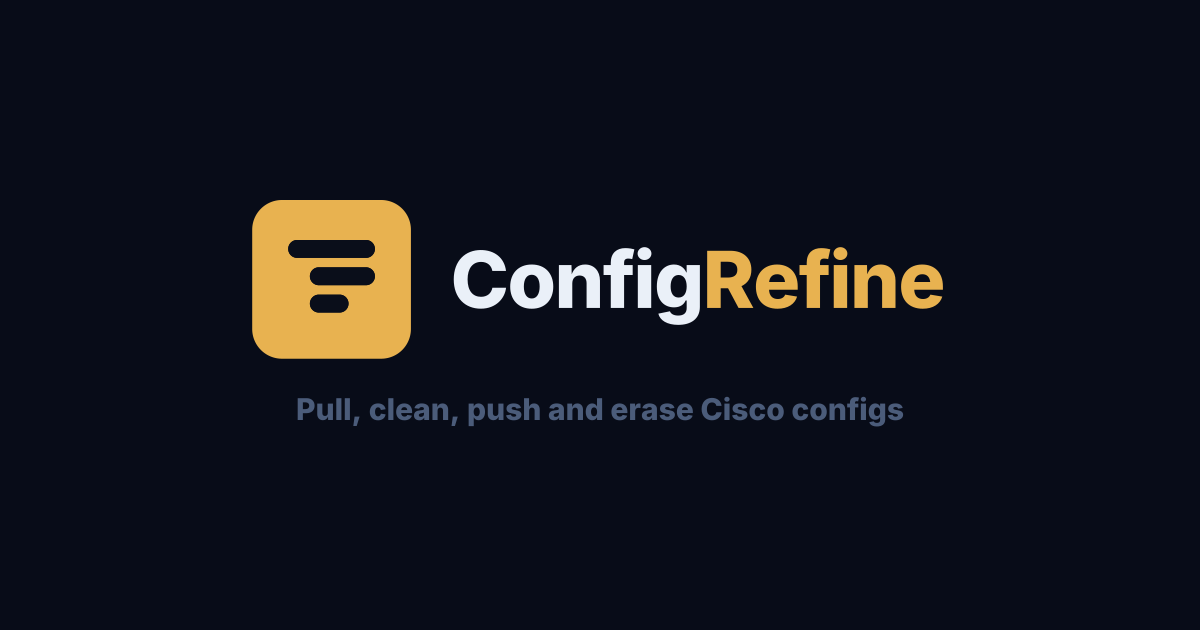
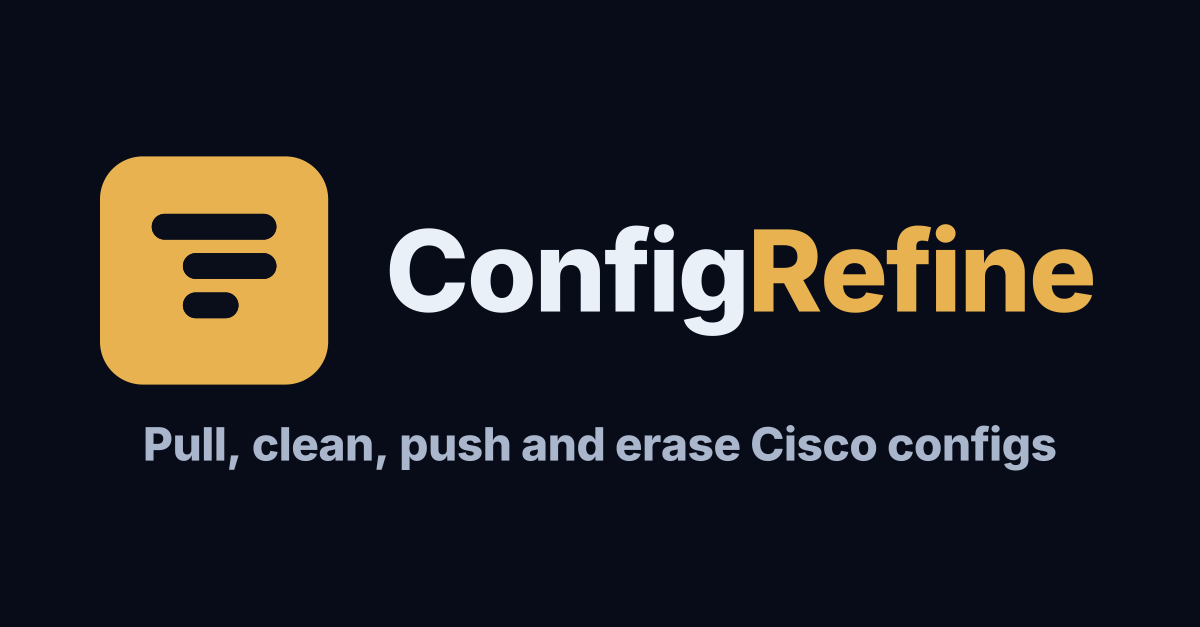
Clearer lab status and link preview
- Lab panel status: no badge while the backend is reachable; the green
  pod chip while a pod is connected; a red "Lab offline" chip plus a
  "Lab connection unavailable" box when the backend is unreachable, with
  the form fields greyed out and disabled and the main button reading
  "Pull / Push / Erase unavailable". Removes the "API" badge and the
  pull_configs.py --serve hint from the UI.
- New 1200x627 link preview image (public/og-image.png, source in
  branding/configrefine-og-image.png).
- <head>: new description everywhere, og:image / twitter:image at
  ?v=2 with width, height, type and alt, plus og:url, og:site_name and
  author; outdated tags replaced.

Changed region(s): [[0.0617, 0.2424, 0.925, 0.6364], [0.1233, 0.6364, 0.8942, 0.7576]]

diff --git a/src/components/LabPanel.jsx b/src/components/LabPanel.jsx
@@ -43,7 +43,10 @@ export function LabPanel({ onClose, onConfigsPulled, files: loadedFiles, vp, inS
   const { releaseIfIdle } = pod;
   useEffect(() => releaseIfIdle, [releaseIfIdle]);
 
-  // Compact input sizes on mobile / in-sheet
+  // Backend unreachable: the lab features can't work, but pasting / cleaning configs still does
+  const offline = apiOnline === false;
+
+  // Compact input sizes on mobile / in-sheet; greyed out while offline
   const inp = {
     width: "100%",
     padding: (vp.phone || inSheet) ? "6px 8px" : "7px 10px",
@@ -51,9 +54,25 @@ export function LabPanel({ onClose, onConfigsPulled, files: loadedFiles, vp, inS
     background: C.surface, color: C.text,
     fontSize: 11, outline: "none",
     fontFamily: "inherit", borderRadius: 0,
+    ...(offline && { opacity: 0.45, cursor: "not-allowed" }),
   };
 
-  const sharedProps = { conn, apiKey, needsAuth, apiOnline, mode, apiBase, inpStyle: inp, pod };
+  const unavailableLabel = `${action === "pull" ? "Pull" : action === "push" ? "Push" : "Erase"} unavailable`;
+
+  const sharedProps = { conn, apiKey, needsAuth, apiOnline, offline, mode, apiBase, inpStyle: inp, pod };
+
+  // Header chip: red "Lab offline" when the backend is unreachable, the green pod chip while a
+  // pod is connected, nothing otherwise (a reachable backend needs no badge)
+  const podLabel = connected ? (session.pod ? `POD ${session.pod}` : "POD") : null;
+  const statusChip = (offline || podLabel) && (
+    <span style={{ display: "flex", alignItems: "center", gap: 4, fontSize: 9, fontWeight: 700, fontFamily: mono, color: offline ? C.red : C.green, whiteSpace: "nowrap" }}>
+      <span style={{ width: 5, height: 5, background: offline ? C.red : C.green }} />
+      {offline ? "Lab offline" : podLabel}
+    </span>
+  );
+
+  // Disables every form control inside it while offline (fields grey via `inp`, buttons via Btn)
+  const offlineFieldset = { border: "none", margin: 0, padding: 0, minWidth: 0 };
 
   // ── Inner content (tabs + credentials + panel) ─────────────────────────────
   const content = (
@@ -113,21 +132,19 @@ export function LabPanel({ onClose, onConfigsPulled, files: loadedFiles, vp, inS
       </div>
 
       <div style={{ flex: inSheet ? undefined : 1, padding: 14, display: "flex", flexDirection: "column", gap: 12 }}>
-        {/* Backend offline warning */}
-        {apiOnline === false && (
-          <div style={{ padding: 12, background: "rgba(248,113,113,0.06)", border: "1px solid rgba(248,113,113,0.15)", display: "flex", flexDirection: "column", gap: 6 }}>
-            <div style={{ display: "flex", alignItems: "center", gap: 6 }}>
-              <AlertCircle style={{ width: 13, height: 13, color: C.red }} />
-              <span style={{ fontSize: 11, fontWeight: 700, color: C.red }}>Backend not running</span>
+        {/* Backend unreachable */}
+        {offline && (
+          <div role="status" style={{ padding: 12, background: "rgba(248,113,113,0.06)", border: "1px solid rgba(248,113,113,0.2)", display: "flex", gap: 8, alignItems: "flex-start" }}>
+            <AlertCircle style={{ width: 14, height: 14, color: C.red, flexShrink: 0, marginTop: 1 }} />
+            <div style={{ display: "flex", flexDirection: "column", gap: 3 }}>
+              <span style={{ fontSize: 11, fontWeight: 700, color: C.red }}>Lab connection unavailable</span>
+              <span style={{ fontSize: 10, color: C.muted }}>Pasting and cleaning configs still works.</span>
             </div>
-            <code style={{ fontSize: 10, color: C.accent, fontFamily: mono, padding: "6px 10px", background: C.surface, border: `1px solid ${C.border}`, display: "block" }}>
-              python pull_configs.py --serve
-            </code>
           </div>
         )}
 
         {/* ── Connection (shared across pull / push / erase) ── */}
-        <div style={{ display: "flex", flexDirection: "column", gap: 8 }}>
+        <fieldset disabled={offline} style={{ ...offlineFieldset, display: "flex", flexDirection: "column", gap: 8 }}>
           <div style={{ fontSize: 8, fontWeight: 800, letterSpacing: 3, color: C.muted + "88", textTransform: "uppercase", fontFamily: mono }}>
             {mode === "console" ? "Console Server" : "Credentials"}
           </div>
@@ -201,7 +218,7 @@ export function LabPanel({ onClose, onConfigsPulled, files: loadedFiles, vp, inS
           {mode === "console" && !connected && (
             <Btn icon={discovering ? Loader : Wifi} onClick={() => pod.discover()} primary disabled={!apiOnline || discovering}
               style={{ justifyContent: "center", padding: "10px 0" }}>
-              {discovering ? "Discovering..." : "Connect & Discover Devices"}
+              {offline ? unavailableLabel : discovering ? "Discovering..." : "Connect & Discover Devices"}
             </Btn>
           )}
           {mode === "console" && discoverMsg && !(connected && discoverMsg.status === "done") && (
@@ -209,9 +226,10 @@ export function LabPanel({ onClose, onConfigsPulled, files: loadedFiles, vp, inS
               {discoverMsg.text}
             </div>
           )}
-        </div>
+        </fieldset>
 
         {/* ── Panels — all stay mounted so per-tab selections and progress survive tab switches ── */}
+        <fieldset disabled={offline} style={offlineFieldset}>
         <div style={{ display: action === "pull" ? "block" : "none" }}>
           <PullPanel {...sharedProps} onConfigsPulled={onConfigsPulled} />
         </div>
@@ -221,6 +239,7 @@ export function LabPanel({ onClose, onConfigsPulled, files: loadedFiles, vp, inS
         <div style={{ display: action === "erase" ? "block" : "none" }}>
           <ErasePanel {...sharedProps} active={action === "erase"} />
         </div>
+        </fieldset>
       </div>
     </>
   );
@@ -237,12 +256,7 @@ export function LabPanel({ onClose, onConfigsPulled, files: loadedFiles, vp, inS
               {action === "pull" ? "Pull Configs" : action === "push" ? "Push Configs" : "Erase & Reload"}
             </div>
           </div>
-          {apiOnline !== null && (
-            <div style={{ display: "flex", alignItems: "center", gap: 4, padding: "3px 8px", background: apiOnline ? C.greenDim : "rgba(248,113,113,0.1)", border: `1px solid ${apiOnline ? "rgba(52,211,153,0.15)" : "rgba(248,113,113,0.15)"}` }}>
-              <div style={{ width: 5, height: 5, background: apiOnline ? C.green : C.red }} />
-              <span style={{ fontSize: 8, fontWeight: 700, color: apiOnline ? C.green : C.red, fontFamily: mono }}>{apiOnline ? "API" : "OFF"}</span>
-            </div>
-          )}
+          {statusChip}
         </div>
         {content}
       </div>
@@ -266,12 +280,7 @@ export function LabPanel({ onClose, onConfigsPulled, files: loadedFiles, vp, inS
           </div>
         </div>
         <div style={{ display: "flex", gap: 4, alignItems: "center" }}>
-          {apiOnline !== null && (
-            <div style={{ display: "flex", alignItems: "center", gap: 4, padding: "3px 8px", background: apiOnline ? C.greenDim : "rgba(248,113,113,0.1)", border: `1px solid ${apiOnline ? "rgba(52,211,153,0.15)" : "rgba(248,113,113,0.15)"}` }}>
-              <div style={{ width: 5, height: 5, background: apiOnline ? C.green : C.red }} />
-              <span style={{ fontSize: 8, fontWeight: 700, color: apiOnline ? C.green : C.red, fontFamily: mono }}>{apiOnline ? "API" : "OFF"}</span>
-            </div>
-          )}
+          {statusChip}
           <IcoBtn icon={X} label="Close" onClick={onClose} />
         </div>
       </div>

diff --git a/src/components/PullPanel.jsx b/src/components/PullPanel.jsx
@@ -11,7 +11,7 @@ import { useReportBusy } from "../hooks/usePodConnection";
  * The device list (console menu or direct host list) comes from the shared
  * `pod` connection; only the pull selection is local to this tab.
  */
-export function PullPanel({ conn, apiKey, apiOnline, mode, onConfigsPulled, apiBase, inpStyle, pod }) {
+export function PullPanel({ conn, apiKey, apiOnline, offline, mode, onConfigsPulled, apiBase, inpStyle, pod }) {
   const { C } = useTheme();
   const { devices, directHosts, setDirectHosts } = pod;
   const [selected, setSelected] = useState(() => devices ? Object.keys(devices) : []);
@@ -114,7 +114,7 @@ export function PullPanel({ conn, apiKey, apiOnline, mode, onConfigsPulled, apiB
         <div style={{ display: "flex", flexDirection: "column", gap: 4 }}>
           <div style={{ display: "flex", justifyContent: "space-between", alignItems: "center" }}>
             <span style={{ fontSize: 8, fontWeight: 800, letterSpacing: 3, color: C.muted + "88", textTransform: "uppercase", fontFamily: mono }}>Devices</span>
-            <button onClick={() => setDirectHosts(p => [...p, ""])} title="Add device" style={{ fontSize: 8, fontWeight: 700, color: C.accent, background: "none", border: "none", cursor: "pointer", fontFamily: mono, display: "flex", alignItems: "center", gap: 3 }}>
+            <button onClick={() => setDirectHosts(p => [...p, ""])} title="Add device" style={{ fontSize: 8, fontWeight: 700, color: C.accent, background: "none", border: "none", cursor: offline ? "not-allowed" : "pointer", opacity: offline ? 0.45 : 1, fontFamily: mono, display: "flex", alignItems: "center", gap: 3 }}>
               <Plus style={{ width: 10, height: 10 }} /> Add
             </button>
           </div>
@@ -131,7 +131,7 @@ export function PullPanel({ conn, apiKey, apiOnline, mode, onConfigsPulled, apiB
       )}
       {mode === "direct" && (
         <Btn icon={busy ? Loader : Play} onClick={pullDirect} primary disabled={!apiOnline || busy || !directHosts.some(h => h.trim())} style={{ justifyContent: "center", padding: "10px 0" }}>
-          {busy ? "Pulling..." : `Pull ${directHosts.filter(h => h.trim()).length} Device${directHosts.filter(h => h.trim()).length !== 1 ? "s" : ""}`}
+          {offline ? "Pull unavailable" : busy ? "Pulling..." : `Pull ${directHosts.filter(h => h.trim()).length} Device${directHosts.filter(h => h.trim()).length !== 1 ? "s" : ""}`}
         </Btn>
       )}
 
@@ -177,7 +177,7 @@ export function PullPanel({ conn, apiKey, apiOnline, mode, onConfigsPulled, apiB
             })}
           </div>
           <Btn icon={busy ? Loader : Play} onClick={pullConsole} primary disabled={busy || !selected.length} style={{ justifyContent: "center", padding: "10px 0" }}>
-            {busy ? "Pulling..." : `Pull ${selected.length} Device${selected.length !== 1 ? "s" : ""}`}
+            {offline ? "Pull unavailable" : busy ? "Pulling..." : `Pull ${selected.length} Device${selected.length !== 1 ? "s" : ""}`}
           </Btn>
         </>
       )}

diff --git a/index.html b/index.html
@@ -4,7 +4,8 @@
     <meta charset="UTF-8" />
     <meta name="viewport" content="width=device-width, initial-scale=1.0" />
     <title>ConfigRefine — Network Config Cleaner</title>
-    <meta name="description" content="Clean up Cisco and network device configs. Strip boilerplate, crypto, QoS, and management noise. Pull configs from lab devices via SSH." />
+    <meta name="description" content="Pull, clean, push and erase Cisco router and switch configs. Built for networking students and lab work." />
+    <meta name="author" content="Daniel Okoro" />
 
     <!-- Icons (branding/configrefine-logo-kit/web/head-snippet.html) -->
     <link rel="icon" href="/favicon.ico?v=2" sizes="48x48" />
@@ -13,17 +14,21 @@
     <link rel="manifest" href="/site.webmanifest?v=2" />
     <meta name="theme-color" content="#080c18" />
 
-    <!-- Open Graph / Link Previews -->
+    <!-- Link previews (Open Graph / Twitter) -->
     <meta property="og:type" content="website" />
+    <meta property="og:url" content="https://configrefine.okoro.me/" />
+    <meta property="og:site_name" content="ConfigRefine" />
     <meta property="og:title" content="ConfigRefine" />
-    <meta property="og:description" content="Network config cleanup tool. Strip boilerplate, crypto, QoS, and management noise from Cisco device configs." />
-    <meta property="og:image" content="https://configrefine.okoro.me/og-image.png" />
-
-    <!-- Twitter Card -->
+    <meta property="og:description" content="Pull, clean, push and erase Cisco router and switch configs. Built for networking students and lab work." />
+    <meta property="og:image" content="https://configrefine.okoro.me/og-image.png?v=2" />
+    <meta property="og:image:width" content="1200" />
+    <meta property="og:image:height" content="627" />
+    <meta property="og:image:type" content="image/png" />
+    <meta property="og:image:alt" content="ConfigRefine logo: Pull, clean, push and erase Cisco configs" />
     <meta name="twitter:card" content="summary_large_image" />
     <meta name="twitter:title" content="ConfigRefine" />
-    <meta name="twitter:description" content="Network config cleanup tool for networking students and engineers." />
-    <meta name="twitter:image" content="https://configrefine.okoro.me/og-image.png" />
+    <meta name="twitter:description" content="Pull, clean, push and erase Cisco router and switch configs. Built for networking students and lab work." />
+    <meta name="twitter:image" content="https://configrefine.okoro.me/og-image.png?v=2" />
 
     <!-- Fonts loaded once here, not inside App.jsx which rerenders -->
     <link rel="preconnect" href="https://fonts.googleapis.com" />

diff --git a/src/components/ErasePanel.jsx b/src/components/ErasePanel.jsx
@@ -12,7 +12,7 @@ import { useReportBusy } from "../hooks/usePodConnection";
  * The device list comes from the shared `pod` connection; only the erase
  * selection is local to this tab.
  */
-export function ErasePanel({ conn, apiKey, apiOnline, mode, apiBase, inpStyle, pod, active = true }) {
+export function ErasePanel({ conn, apiKey, apiOnline, offline, mode, apiBase, inpStyle, pod, active = true }) {
   const { C } = useTheme();
   const vp = useViewport();
 
@@ -138,7 +138,7 @@ export function ErasePanel({ conn, apiKey, apiOnline, mode, apiBase, inpStyle, p
     else executeConsole();
   };
 
-  const btnLabel = busy ? "Erasing..." : `Erase & Reload ${eraseCount} Device${eraseCount !== 1 ? "s" : ""}`;
+  const btnLabel = offline ? "Erase unavailable" : busy ? "Erasing..." : `Erase & Reload ${eraseCount} Device${eraseCount !== 1 ? "s" : ""}`;
 
   // ── Confirmation dialog (inline on desktop, second sheet on mobile) ──
   const confirmDialog = confirmOpen && (
@@ -247,7 +247,7 @@ export function ErasePanel({ conn, apiKey, apiOnline, mode, apiBase, inpStyle, p
             <button
               onClick={() => setDirectHosts(p => [...p, ""])}
               title="Add device"
-              style={{ fontSize: 8, fontWeight: 700, color: C.accent, background: "none", border: "none", cursor: "pointer", fontFamily: mono, display: "flex", alignItems: "center", gap: 3 }}
+              style={{ fontSize: 8, fontWeight: 700, color: C.accent, background: "none", border: "none", cursor: offline ? "not-allowed" : "pointer", opacity: offline ? 0.45 : 1, fontFamily: mono, display: "flex", alignItems: "center", gap: 3 }}
             >
               <Plus style={{ width: 10, height: 10 }} /> Add
             </button>
@@ -317,8 +317,9 @@ export function ErasePanel({ conn, apiKey, apiOnline, mode, apiBase, inpStyle, p
       {/* Confirmation dialog (desktop inline, mobile second sheet) */}
       {confirmDialog}
 
-      {/* Action button — only visible when dialog is NOT open */}
-      {!confirmOpen && (
+      {/* Action button — only visible when dialog is NOT open. Offline with no pod in console mode,
+          the panel's main button above already reads "Erase unavailable", so don't repeat it. */}
+      {!confirmOpen && !(offline && mode === "console" && !devices) && (
         <button
           onClick={openConfirm}
           disabled={!apiOnline || busy || !eraseCount || (mode === "console" && !devices)}

diff --git a/src/components/PushPanel.jsx b/src/components/PushPanel.jsx
@@ -11,7 +11,7 @@ import { useReportBusy } from "../hooks/usePodConnection";
  * Console targets come from the shared `pod` device list; only the
  * config → device mappings are local to this tab.
  */
-export function PushPanel({ conn, apiKey, apiOnline, mode, files: loadedFiles, apiBase, inpStyle, pod }) {
+export function PushPanel({ conn, apiKey, apiOnline, offline, mode, files: loadedFiles, apiBase, inpStyle, pod }) {
   const { C } = useTheme();
   const { devices, directHosts } = pod;
   const [pushMappings, setPushMappings] = useState([]);
@@ -176,11 +176,14 @@ export function PushPanel({ conn, apiKey, apiOnline, mode, files: loadedFiles, a
         )}
       </div>
 
-      <Btn icon={busy ? Loader : Upload} onClick={mode === "direct" ? pushDirect : pushConsole} primary
-        disabled={!apiOnline || busy || !readyCount || (mode === "console" && !devices)}
-        style={{ justifyContent: "center", padding: "10px 0" }}>
-        {busy ? "Pushing..." : `Push ${readyCount} Config${readyCount !== 1 ? "s" : ""}`}
-      </Btn>
+      {/* Offline with no pod in console mode, the panel's main button above already reads "Push unavailable" */}
+      {!(offline && mode === "console" && !devices) && (
+        <Btn icon={busy ? Loader : Upload} onClick={mode === "direct" ? pushDirect : pushConsole} primary
+          disabled={!apiOnline || busy || !readyCount || (mode === "console" && !devices)}
+          style={{ justifyContent: "center", padding: "10px 0" }}>
+          {offline ? "Push unavailable" : busy ? "Pushing..." : `Push ${readyCount} Config${readyCount !== 1 ? "s" : ""}`}
+        </Btn>
+      )}
 
       {/* Status bar */}
       {message && (
